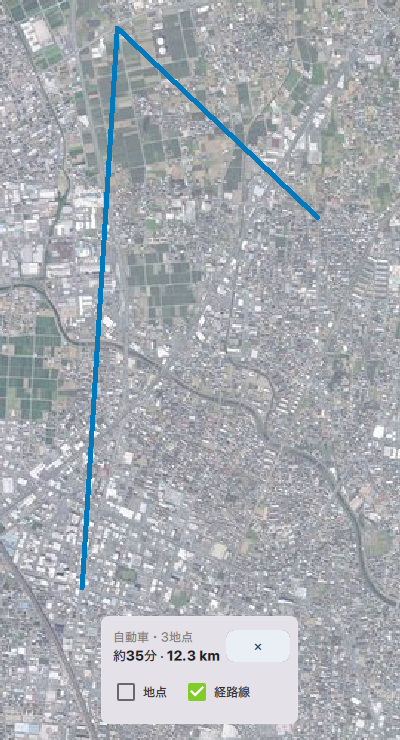
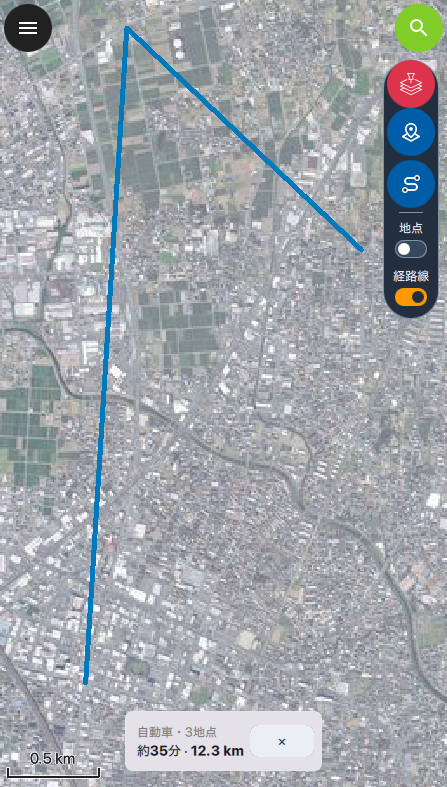
Keep independent map switches in the slim search capsule

diff --git a/main.qml b/main.qml
@@ -256,8 +256,6 @@ Item {
         optimizeRequest.cancel()
         route.geometryWrapper.clear()
         routeSummary = ""
-        showRouteStops = true
-        showRouteLine = true
         message = ""
         optimizeNote = ""
     }
@@ -383,78 +381,125 @@ Item {
     }
 
     component SearchToolButton: QfToolButton {
+        anchors.horizontalCenter: parent.horizontalCenter
         round: true
-        visible: searchGroup.expansion > 0
-        display: AbstractButton.IconOnly
         bgcolor: Colors.blue
         opacity: enabled ? 1 : 0.4
         Accessible.name: text
+        display: AbstractButton.IconOnly
         ToolTip.text: text
-        ToolTip.visible: hovered
+        ToolTip.visible: hovered || pressed
         ToolTip.delay: serviceButton.ToolTip.delay
+    }
+
+    component MapVisibilitySwitch: Switch {
+        id: control
+        anchors.horizontalCenter: parent.horizontalCenter
+        implicitWidth: Math.max(plugin.touchHeight, caption.implicitWidth + 8)
+        implicitHeight: Math.max(plugin.touchHeight, caption.contentHeight + track.height + 6)
+        padding: 0
+        indicator: Rectangle {
+            id: track
+            anchors.horizontalCenter: parent.horizontalCenter
+            y: (control.height + caption.contentHeight - height) / 2 + 2
+            width: 32
+            height: 18
+            radius: height / 2
+            color: control.checked ? Colors.orange : Colors.capsuleSurface
+            border.color: control.checked ? Colors.orange : Colors.capsuleBorder
+            Rectangle {
+                x: control.checked ? parent.width - width - 3 : 3
+                anchors.verticalCenter: parent.verticalCenter
+                width: 12
+                height: width
+                radius: width / 2
+                color: control.checked ? Colors.ink : "white"
+                Behavior on x { NumberAnimation { duration: 100 } }
+            }
+        }
+        contentItem: Label {
+            id: caption
+            text: control.text
+            font: QfTheme.tipFont
+            color: "white"
+            bottomPadding: track.height + 4
+            horizontalAlignment: Text.AlignHCenter
+            verticalAlignment: Text.AlignVCenter
+        }
     }
 
     Item {
         id: searchGroup
-        readonly property real collapsedHeight: serviceButton.height + 2 * buttonColumn.padding
-        property real expansion: serviceButton.checked ? 1 : 0
-        implicitWidth: buttonColumn.implicitWidth
-        implicitHeight: collapsedHeight + expansion * (buttonColumn.implicitHeight - collapsedHeight)
-        clip: true
-
-        Behavior on expansion {
-            NumberAnimation { duration: 150; easing.type: Easing.OutCubic }
-        }
-
+        implicitWidth: capsule.width + 8
+        implicitHeight: capsule.height + 8
         Rectangle {
-            anchors.fill: parent
+            id: capsule
+            x: 4
+            y: 4
+            width: serviceButton.checked ? Math.max(serviceButton.width, menu.implicitWidth) + 8 : serviceButton.width
+            height: serviceButton.height + (serviceButton.checked ? menu.implicitHeight + 10 : 0)
             radius: width / 2
             color: Colors.ink
-            opacity: searchGroup.expansion
-        }
-
-        Column {
-            id: buttonColumn
-            padding: 4
-            spacing: padding
+            border.color: serviceButton.checked ? Colors.capsuleBorder : "transparent"
             QfToolButton {
                 id: serviceButton
-                readonly property int iconSize: Math.round(width * 0.7)
+                anchors.horizontalCenter: parent.horizontalCenter
+                readonly property int logoSize: Math.round(width * 0.7)
                 round: true
                 checkable: true
                 bgcolor: Colors.serviceRed
                 padding: 0
                 iconSource: plugin.serviceIcon
                 iconColor: "transparent"
-                icon.width: serviceButton.iconSize
-                icon.height: serviceButton.iconSize
+                icon.width: logoSize
+                icon.height: logoSize
                 bottomRightIndicatorText: plugin.picking ? String(plugin.stops.length) : ""
                 bottomRightIndicatorBgColor: Colors.orange
                 bottomRightIndicatorFgColor: Colors.ink
                 statusBadge.bottomMargin: 0
                 statusBadge.rightMargin: 0
                 Accessible.name: plugin.serviceName
-                Accessible.description: checked ? qsTranslate("AmazonLocationService", "Hide search buttons") : qsTranslate("AmazonLocationService", "Show search buttons")
+                Accessible.description: checked ? qsTranslate("AmazonLocationService", "Close map tools") : qsTranslate("AmazonLocationService", "Open map tools")
                 ToolTip.text: plugin.serviceName
                 ToolTip.visible: hovered && !checked
                 ToolTip.delay: 600
             }
-
-            SearchToolButton {
-                text: qsTranslate("AmazonLocationService", "Place Search")
-                iconSource: Qt.resolvedUrl("poi-search.svg")
-                enabled: serviceButton.checked && !plugin.pending
-                onClicked: plugin.openPlaces(false)
-            }
-
-            SearchToolButton {
-                enabled: serviceButton.checked
-                text: qsTranslate("AmazonLocationService", "Route Search")
-                iconSource: Qt.resolvedUrl("icon.svg")
-                onClicked: {
-                    plugin.pickMode = ""
-                    plugin.preview = null
-                    panel.open()
+            Column {
+                id: menu
+                anchors.horizontalCenter: parent.horizontalCenter
+                anchors.top: serviceButton.bottom
+                spacing: 4
+                visible: serviceButton.checked
+                SearchToolButton {
+                    text: qsTranslate("AmazonLocationService", "Place Search")
+                    iconSource: Qt.resolvedUrl("poi-search.svg")
+                    enabled: !plugin.pending
+                    onClicked: plugin.openPlaces(false)
+                }
+                SearchToolButton {
+                    text: qsTranslate("AmazonLocationService", "Route Search")
+                    iconSource: Qt.resolvedUrl("icon.svg")
+                    onClicked: {
+                        plugin.pickMode = ""
+                        plugin.preview = null
+                        panel.open()
+                    }
+                }
+                Rectangle {
+                    anchors.horizontalCenter: parent.horizontalCenter
+                    width: serviceButton.width / 2
+                    height: 1
+                    color: Colors.capsuleBorder
+                }
+                MapVisibilitySwitch {
+                    text: qsTranslate("AmazonLocationService", "Stops")
+                    checked: plugin.showRouteStops
+                    onToggled: plugin.showRouteStops = checked
+                }
+                MapVisibilitySwitch {
+                    text: qsTranslate("AmazonLocationService", "Route line")
+                    checked: plugin.showRouteLine
+                    onToggled: plugin.showRouteLine = checked
                 }
             }
         }
@@ -648,9 +693,7 @@ Item {
         width: Math.min(implicitWidth, parent.width - 2 * plugin.gutter)
         clearsCornerControls: true
         padding: 8
-        contentItem: GridLayout {
-            columns: 2
-            rowSpacing: 0
+        contentItem: RowLayout {
             ColumnLayout {
                 Layout.fillWidth: true
                 Layout.leftMargin: 4
@@ -673,9 +716,6 @@ Item {
             CloseButton {
                 Accessible.name: qsTranslate("AmazonLocationService", "Close route summary")
                 onClicked: plugin.summaryDismissed = true
-            }
-            RouteVisibilityControls {
-                Layout.columnSpan: 2
             }
         }
     }
@@ -739,21 +779,6 @@ Item {
                     }
                 }
             }
-        }
-    }
-
-    component RouteVisibilityControls: RowLayout {
-        CheckBox {
-            text: qsTranslate("AmazonLocationService", "Stops")
-            checked: plugin.showRouteStops
-            onToggled: plugin.showRouteStops = checked
-            Layout.minimumHeight: plugin.touchHeight
-        }
-        CheckBox {
-            text: qsTranslate("AmazonLocationService", "Route line")
-            checked: plugin.showRouteLine
-            onToggled: plugin.showRouteLine = checked
-            Layout.minimumHeight: plugin.touchHeight
         }
     }
 
@@ -1331,9 +1356,6 @@ Item {
                     text: plugin.statusText || (plugin.pending ? "" : plugin.routeSummary)
                     textFormat: Text.PlainText
                     color: plugin.message ? plugin.colors.danger.foreground : QfTheme.mainTextColor
-                }
-                RouteVisibilityControls {
-                    visible: !!plugin.routeSummary
                 }
                 LocationButton {
                     Layout.fillWidth: true

diff --git a/main_ja.ts b/main_ja.ts
@@ -112,12 +112,12 @@
         <translation>経路を検索できませんでした</translation>
     </message>
     <message>
-        <source>Hide search buttons</source>
-        <translation>検索ボタンを隠す</translation>
+        <source>Close map tools</source>
+        <translation>地図ツールを閉じる</translation>
     </message>
     <message>
-        <source>Show search buttons</source>
-        <translation>検索ボタンを表示する</translation>
+        <source>Open map tools</source>
+        <translation>地図ツールを開く</translation>
     </message>
     <message>
         <source>Place Search</source>

diff --git a/ButtonColors.js b/ButtonColors.js
@@ -3,6 +3,8 @@
 const ink = "#232f3e"
 const orange = "#ff9900"
 const serviceRed = "#dd344c"
+const capsuleSurface = "#35485d"
+const capsuleBorder = "#8192a3"
 const blue = "#005ea8"
 const primary = { background: orange, foreground: ink }
 

diff --git a/README.md b/README.md
@@ -48,9 +48,9 @@ If installation from a URL is unavailable, download [amazon-location-service.zip
 
 ### Connection settings
 
-Tap the Amazon Location Service button at the upper right of the map. The pin opens **Place Search** and the route line opens **Route Search**. Tap the service button again to close the menu.
+Tap the Amazon Location Service button at the upper right of the map. Choose **Place Search** or **Route Search** from the capsule. Tap the service button again to close the menu.
 
-<img src="img/amazon-location-menu.png" alt="Expanded service menu with the Place Search and Route Search buttons" width="96">
+<img src="img/amazon-location-menu.png" alt="Amazon Location capsule with search actions and map visibility switches" width="60">
 
 In either search screen, tap **Settings**, enter the **AWS Region** where you created your key and the **Amazon Location API key**, then tap **Done**. Both searches use these settings.
 
@@ -116,7 +116,7 @@ With Car, Walking, Scooter, or Truck and at least three stops, **Optimize order*
 
 Once the search completes, the map displays the entire route. In the example below, the blue line follows roads in the order **1 → 2 → 3**. The route and numbered stops appear as temporary overlays on your project map.
 
-A card at the bottom of the map shows the estimated travel time and total distance. Uncheck **Stops** or **Route line** to see features underneath. Check either box to show that part of the result again without another search. If you close the card with **×**, you can still change both options in **Route Search**.
+A card at the bottom of the map shows the estimated travel time and total distance. Open the Amazon Location capsule at the upper right and switch **Stops** or **Route line** off to see features underneath. Both switches are available before a search and after you close the result card. Switch either one back on to restore it without searching again. Your choices carry over to the next search.
 
 <img src="img/driving-route-result.png" alt="Map with a blue driving route from origin 1 through waypoint 2 to destination 3" width="360">
 
